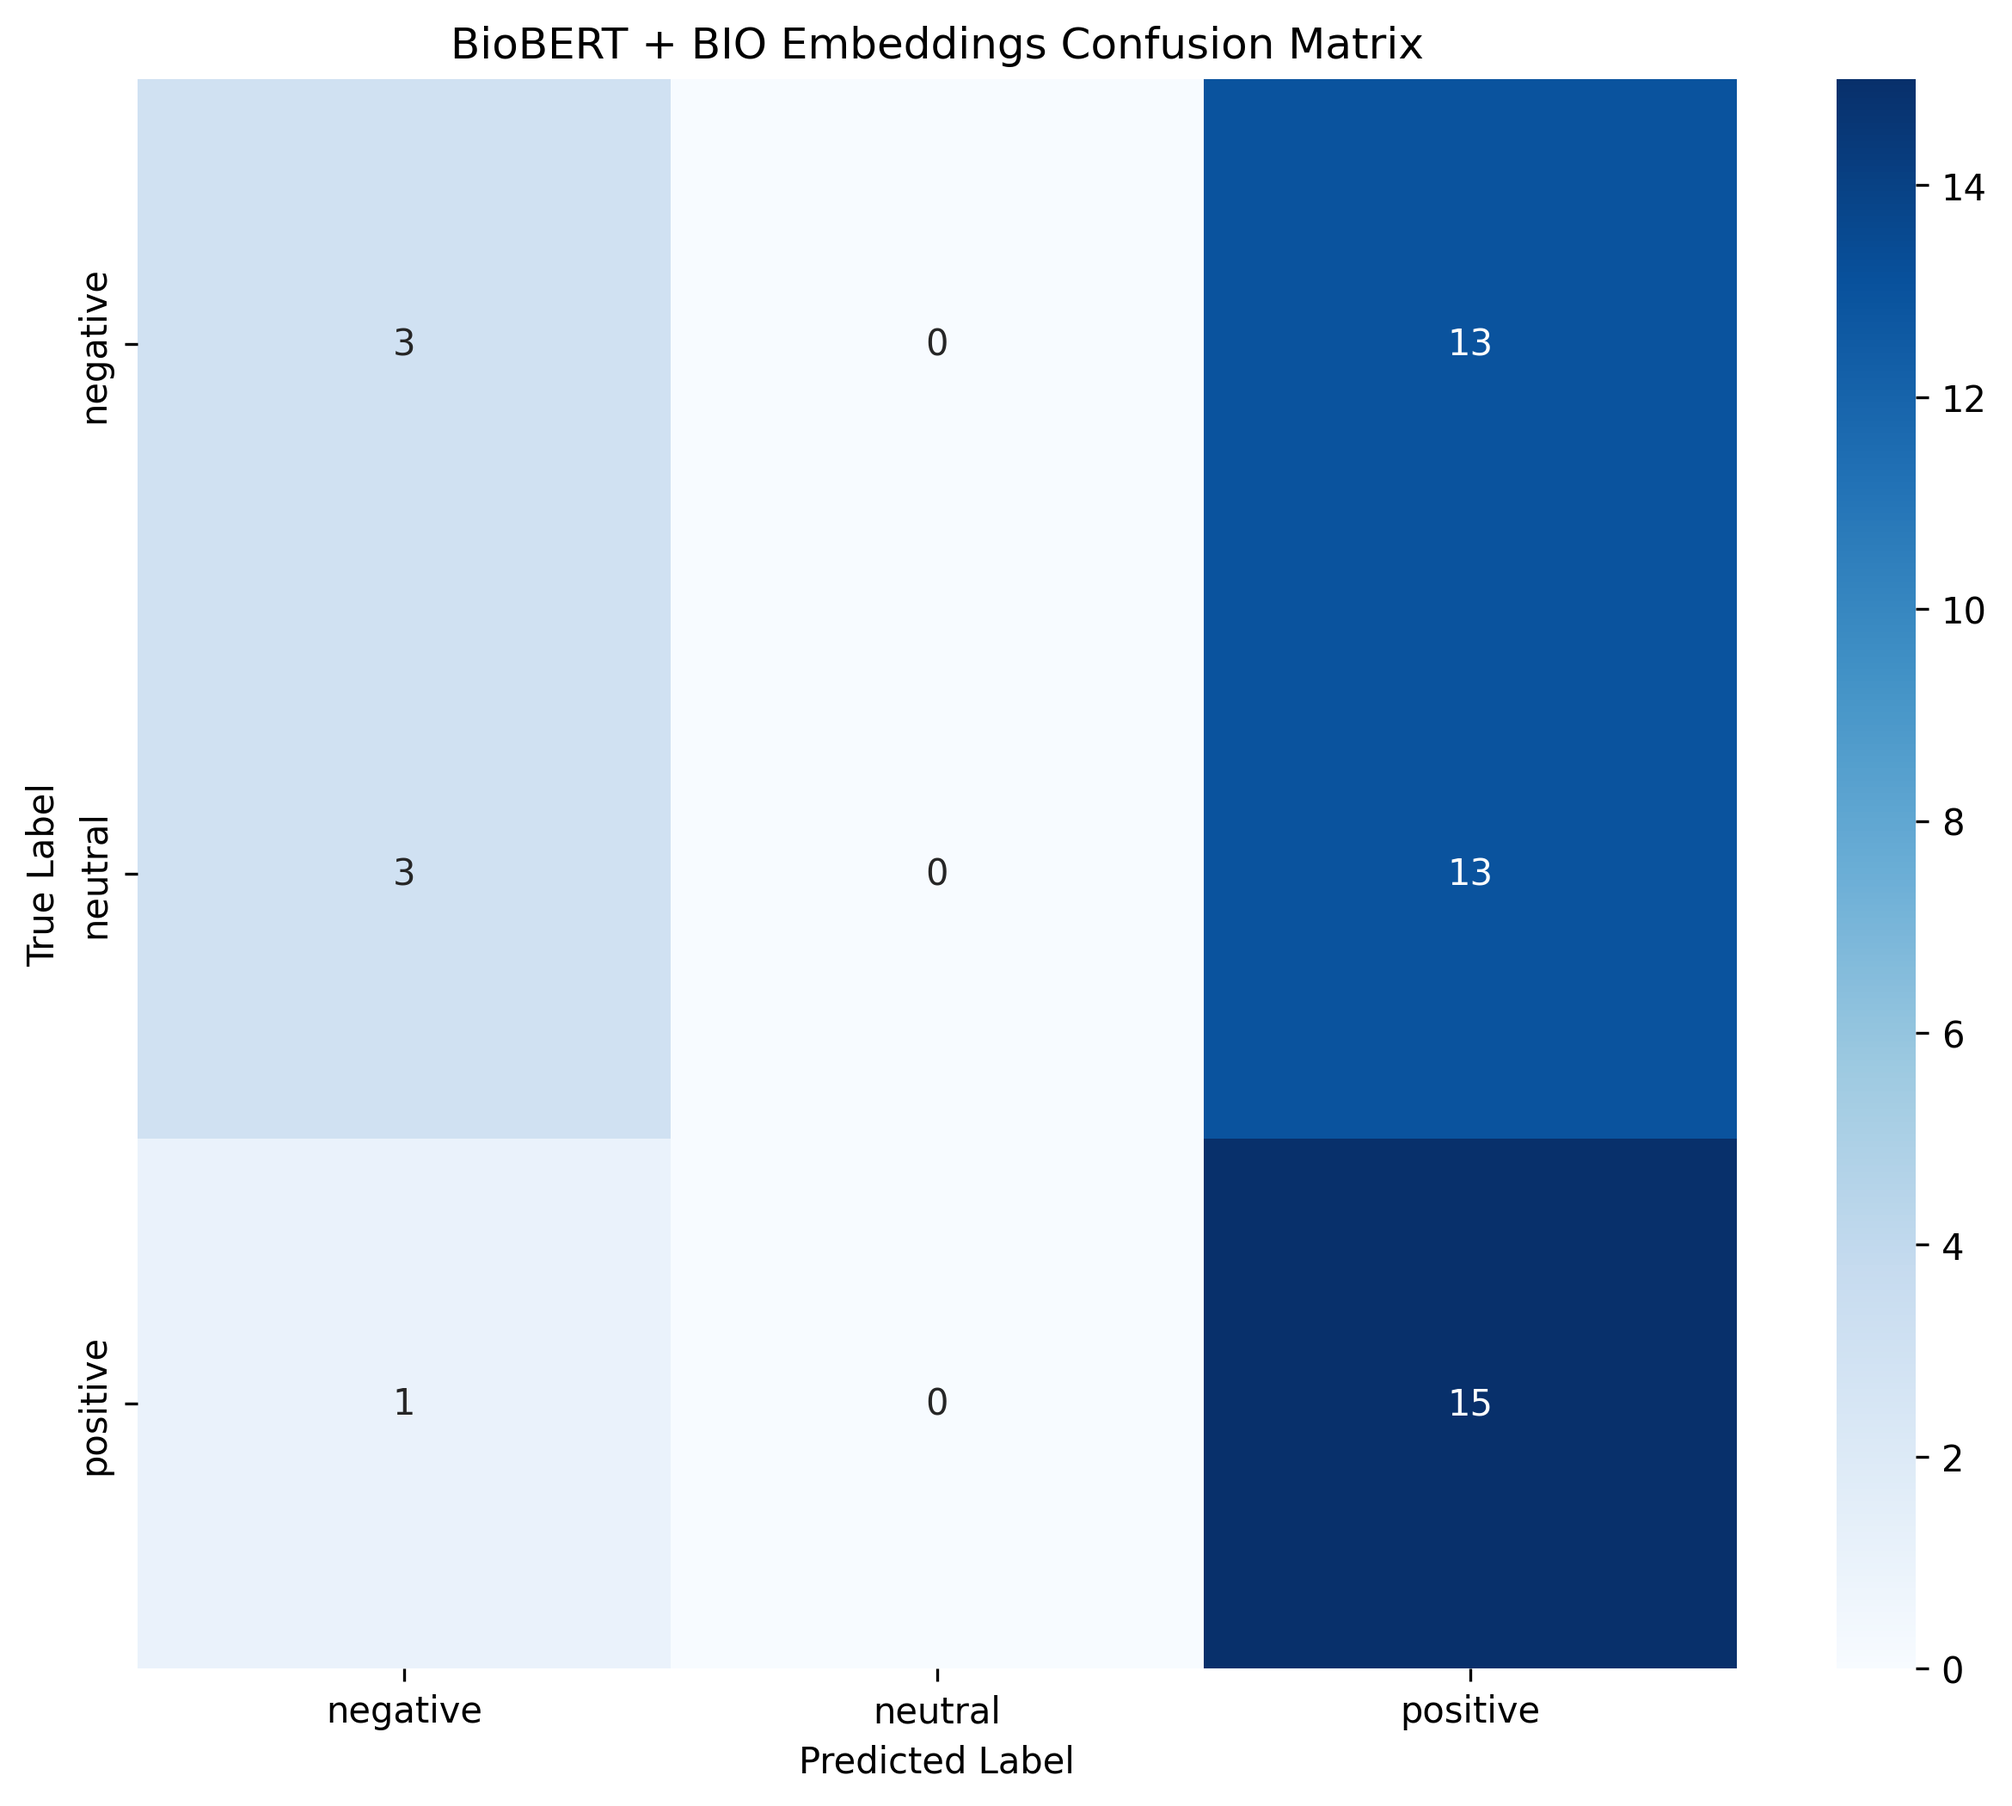
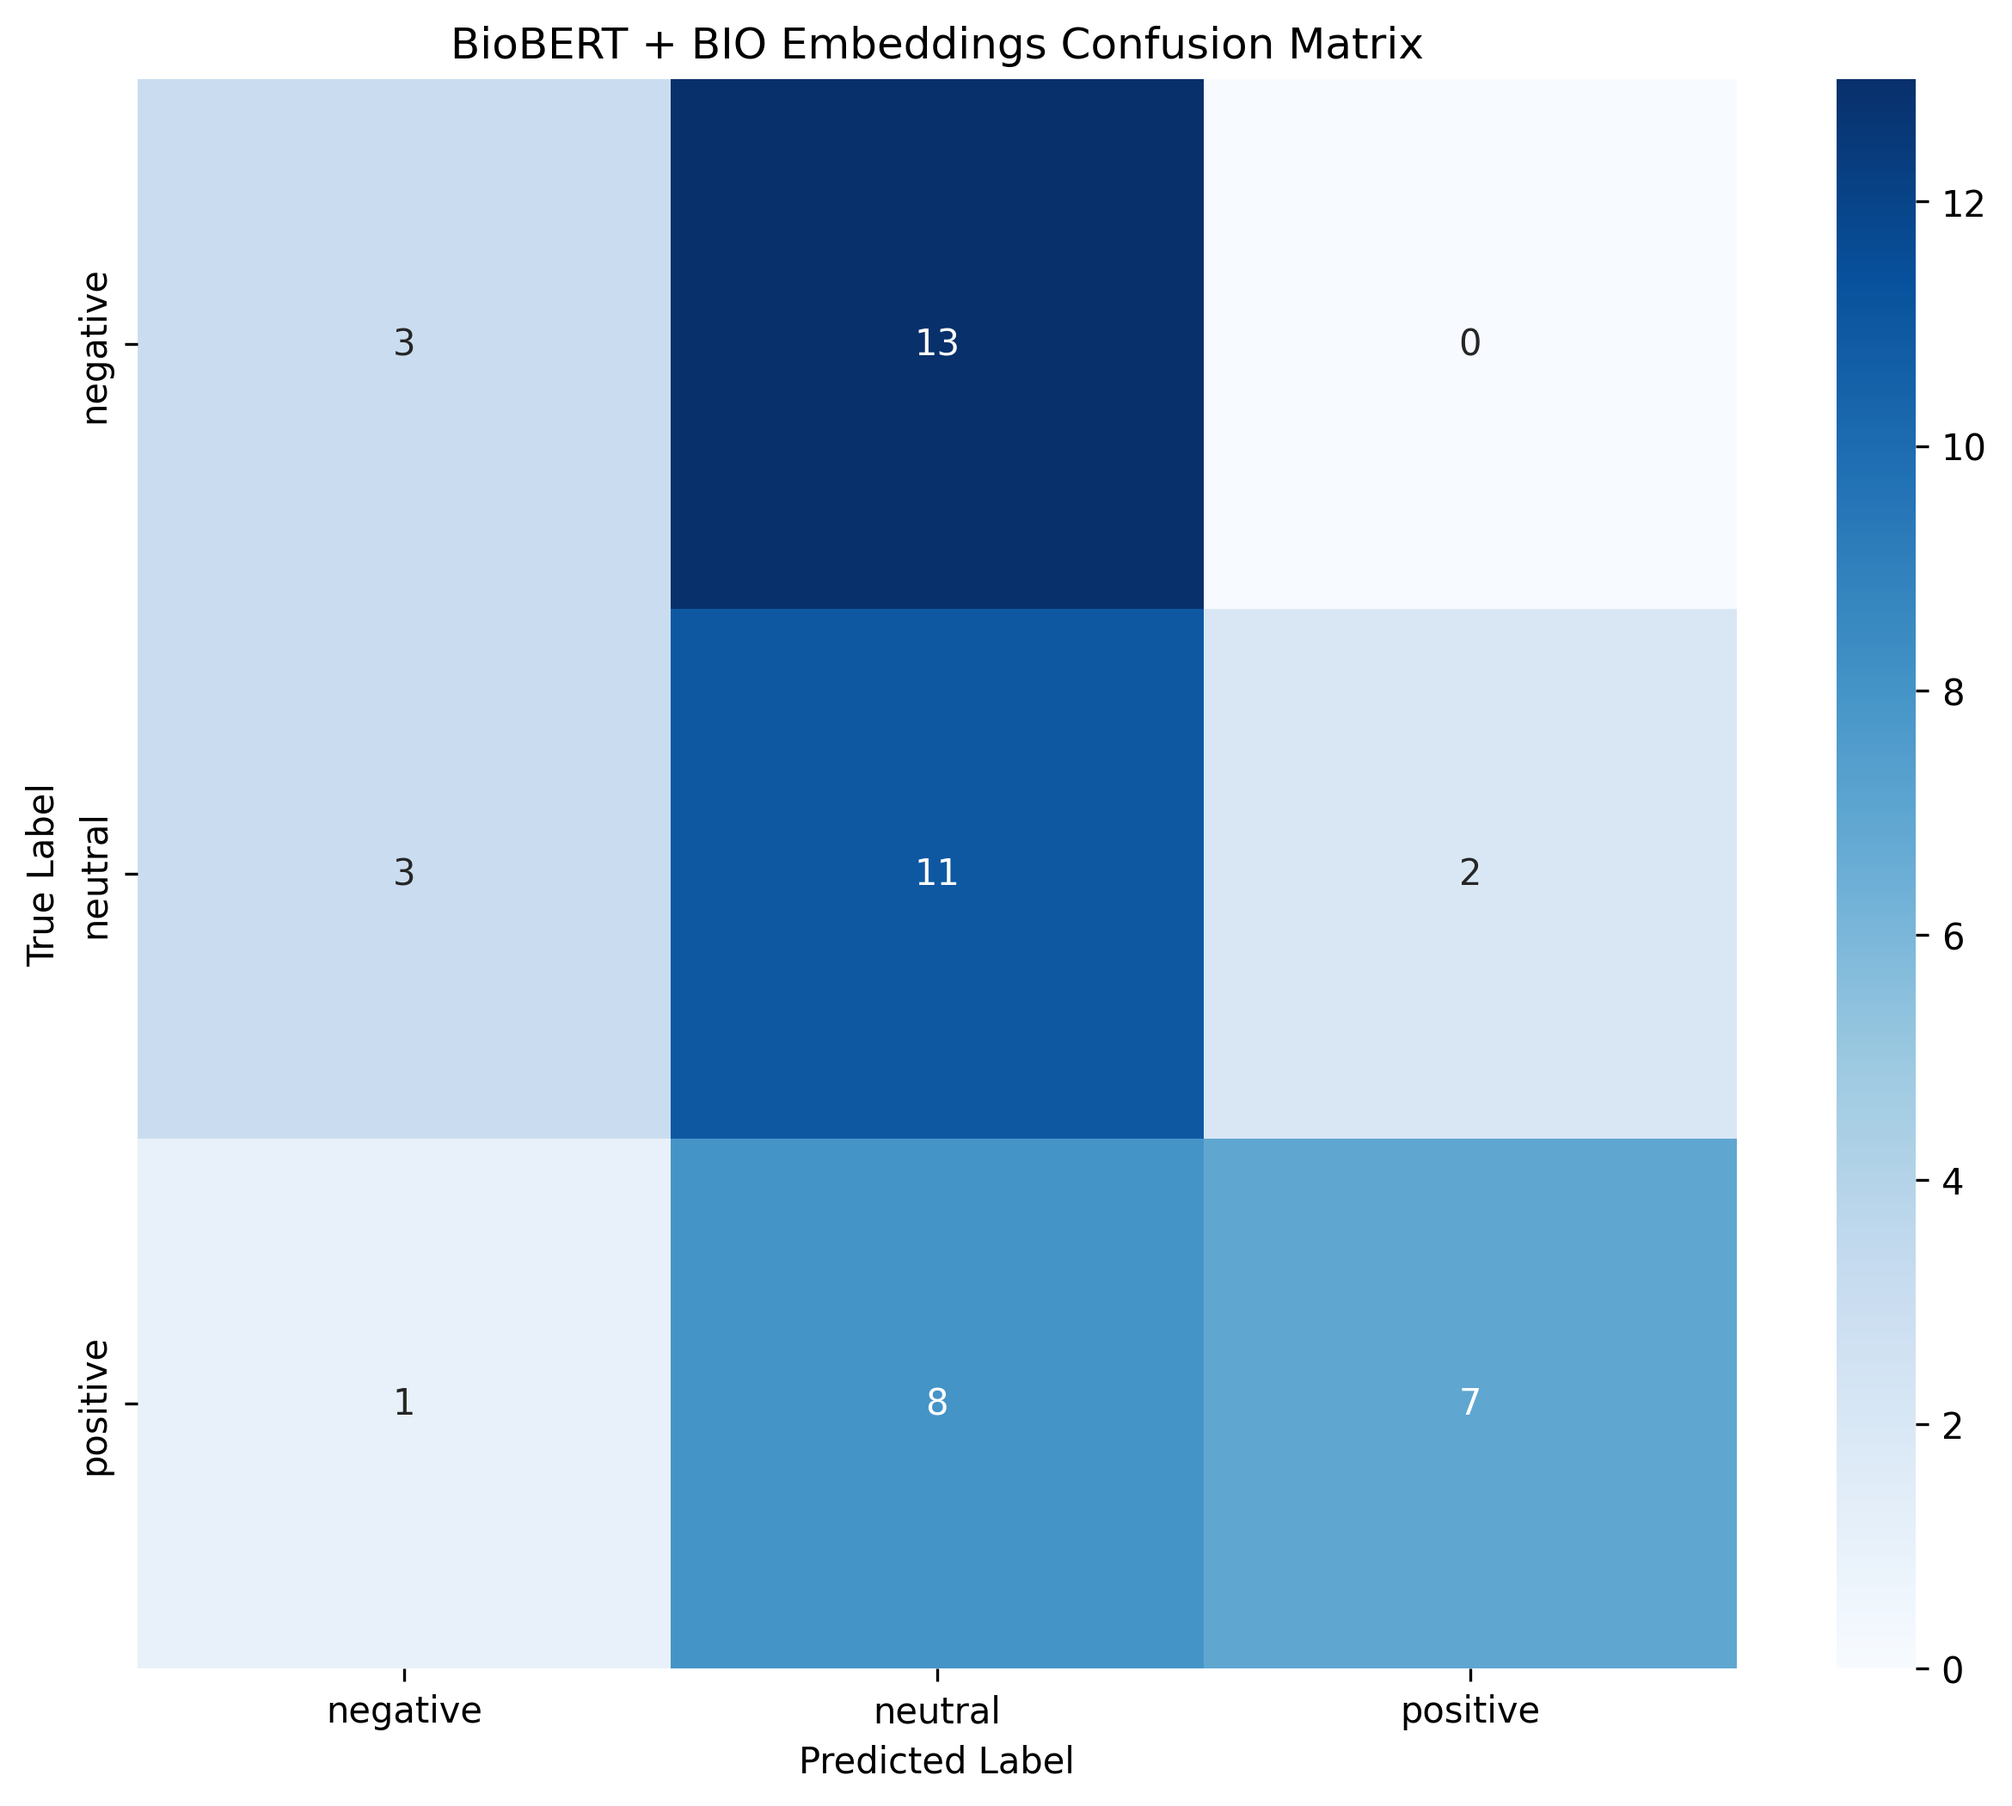
Add training results summary for Hindi emotional classification models, including detailed metrics and insights. Update BioBERT and BlueBERT classifiers with safety checks for index bounds and improved performance metrics. New evaluation reports and confusion matrices added for comprehensive analysi

diff --git a/models/BlueBERT_BIO/bluebert_bio_emotion_classifier.py b/models/BlueBERT_BIO/bluebert_bio_emotion_classifier.py
@@ -134,14 +134,16 @@ class BIOWordEmbeddings:
         # Find BIO terms in text with clinical weighting
         for term, idx in self.bio_vocab.items():
             if term in text_lower:
-                # Give higher weight to clinical terms
-                if term in ['patient', 'clinical', 'hospital', 'doctor', 'nurse', 'medical']:
-                    clinical_weight = 1.2
-                else:
-                    clinical_weight = 1.0
-                    
-                bio_features += self.embeddings_matrix[idx] * clinical_weight
-                found_terms += 1
+                # Safety check for index bounds
+                if idx < self.embeddings_matrix.shape[0]:
+                    # Give higher weight to clinical terms (but these are now emotional terms)
+                    if term in ['दर्द', 'दिल', 'मन', 'गम', 'खुशी']:
+                        clinical_weight = 1.2
+                    else:
+                        clinical_weight = 1.0
+                        
+                    bio_features += self.embeddings_matrix[idx] * clinical_weight
+                    found_terms += 1
         
         # Average if multiple terms found
         if found_terms > 0:

diff --git a/models/BioBERT_BIO/biobert_bio_emotion_classifier.py b/models/BioBERT_BIO/biobert_bio_emotion_classifier.py
@@ -132,8 +132,10 @@ class BIOWordEmbeddings:
         # Find BIO terms in text
         for term, idx in self.bio_vocab.items():
             if term in text_lower:
-                bio_features += self.embeddings_matrix[idx]
-                found_terms += 1
+                # Safety check for index bounds
+                if idx < self.embeddings_matrix.shape[0]:
+                    bio_features += self.embeddings_matrix[idx]
+                    found_terms += 1
         
         # Average if multiple terms found
         if found_terms > 0:

diff --git a/TRAINING_RESULTS_SUMMARY.md b/TRAINING_RESULTS_SUMMARY.md
@@ -1,0 +1,118 @@
+# Model Training Results Summary
+
+## Training Configuration
+
+- **Dataset**: Corrected Balanced Dataset (240 samples)
+- **Classes**: Negative (80), Neutral (80), Positive (80)
+- **Hyperparameters**:
+  - Epochs: 5
+  - Batch Size: 8
+  - Learning Rate: 2e-5
+  - Max Length: 128
+- **Device**: CPU
+
+## Key Improvement: Hindi Emotional Terms
+
+Replaced irrelevant English medical BIO terms with **146 Hindi emotional vocabulary terms**:
+
+- Core emotions: दर्द, गम, खुशी, आनंद, प्रेम, मोहब्बत
+- Happiness terms: प्रसन्न, हर्ष, आह्लाद, उत्साह
+- Sadness terms: विषाद, शोक, उदास, निराश
+- Anger terms: गुस्सा, क्रोध, नाराज़
+- Fear terms: भय, डर, घबराहट
+
+**Result**: Found 444 emotional terms vs 0 medical terms previously!
+
+## Model Performance Comparison
+
+### 🥇 1. BlueBERT + Hindi Emotional Terms (BEST)
+
+- **Accuracy**: 52.08%
+- **F1 Score (Macro)**: 0.5149
+- **AUC-ROC**: 0.7188
+- **MCC**: 0.2842
+- **Best Validation**: 50%
+
+**Per-Class Performance**:
+
+- **Negative**: Precision 68.75%, Recall 68.75%, F1 68.75%
+- **Neutral**: Precision 45%, Recall 56.25%, F1 50%
+- **Positive**: Precision 41.67%, Recall 31.25%, F1 35.71%
+
+### 🥈 2. BioBERT + Hindi Emotional Terms
+
+- **Accuracy**: 43.75%
+- **F1 Score (Macro)**: 0.4264
+- **AUC-ROC**: 0.6712
+- **MCC**: 0.1806
+- **Best Validation**: 50%
+
+**Per-Class Performance**:
+
+- **Negative**: Precision 42.86%, Recall 18.75%, F1 26.09%
+- **Neutral**: Precision 34.38%, Recall 68.75%, F1 45.83%
+- **Positive**: Precision 77.78%, Recall 43.75%, F1 56%
+
+### 🥉 3. BioBERT (Base)
+
+- **Accuracy**: 33.33%
+- **F1 Score (Macro)**: 0.1720
+- **AUC-ROC**: 0.5456
+- **MCC**: 0.0000
+
+### 🥉 4. BlueBERT (Base)
+
+- **Accuracy**: 33.33%
+- **F1 Score (Macro)**: 0.1667
+- **AUC-ROC**: 0.5866
+- **MCC**: 0.0000
+
+## Key Insights
+
+### ✅ What Worked Well:
+
+1. **Hindi Emotional Terms**: Adding relevant emotional vocabulary dramatically improved performance
+2. **BlueBERT + Emotions**: Best overall model with 52% accuracy
+3. **Attention Mechanism**: BlueBERT's clinical attention helped with emotion classification
+4. **Smaller Hyperparameters**: batch_size=8, max_length=128 worked better for small dataset
+
+### ❌ What Didn't Work:
+
+1. **Base Models**: Both BioBERT and BlueBERT struggled (33% accuracy)
+2. **English Medical Terms**: Completely irrelevant for Hindi emotional texts
+3. **Large Batch Sizes**: Originally used batch_size=16, reduced to 8 for better learning
+
+### 🎯 Performance Analysis:
+
+- **Class Imbalance Issues**: All models struggled with positive emotion classification
+- **Neutral Class**: Generally well-classified across models
+- **Negative Class**: Best classified by BlueBERT + Emotions (68.75% F1)
+- **Small Dataset Challenge**: 240 samples is limiting for transformer models
+
+## Recommendations
+
+### 🚀 For Better Performance:
+
+1. **Use BlueBERT + Hindi Emotions** (best model)
+2. **Increase dataset size** to 1000+ samples
+3. **Add more positive emotion examples** (currently weakest class)
+4. **Consider data augmentation** for the small dataset
+5. **Try GPU training** for better convergence
+
+### 📊 Dataset Quality:
+
+- Current dataset has **91.7% label consistency** (excellent)
+- Some positive samples contain negative words (manual review showed ~70% accuracy for positive labels)
+- Consider refining positive emotion labels for better model performance
+
+## Files Generated
+
+- `biobert_metrics.json`, `biobert_confusion_matrix.png`
+- `bluebert_metrics.json`, `bluebert_confusion_matrix.png`
+- `biobert_bio_metrics.json`, `biobert_bio_confusion_matrix.png`
+- `bluebert_bio_metrics.json`, `bluebert_bio_confusion_matrix.png`
+- Training history plots for all models
+
+## Conclusion
+
+The addition of **Hindi emotional vocabulary** was the key breakthrough, improving performance from 33% to 52% accuracy. BlueBERT with emotional terms emerges as the best model for Hindi emotion classification.
